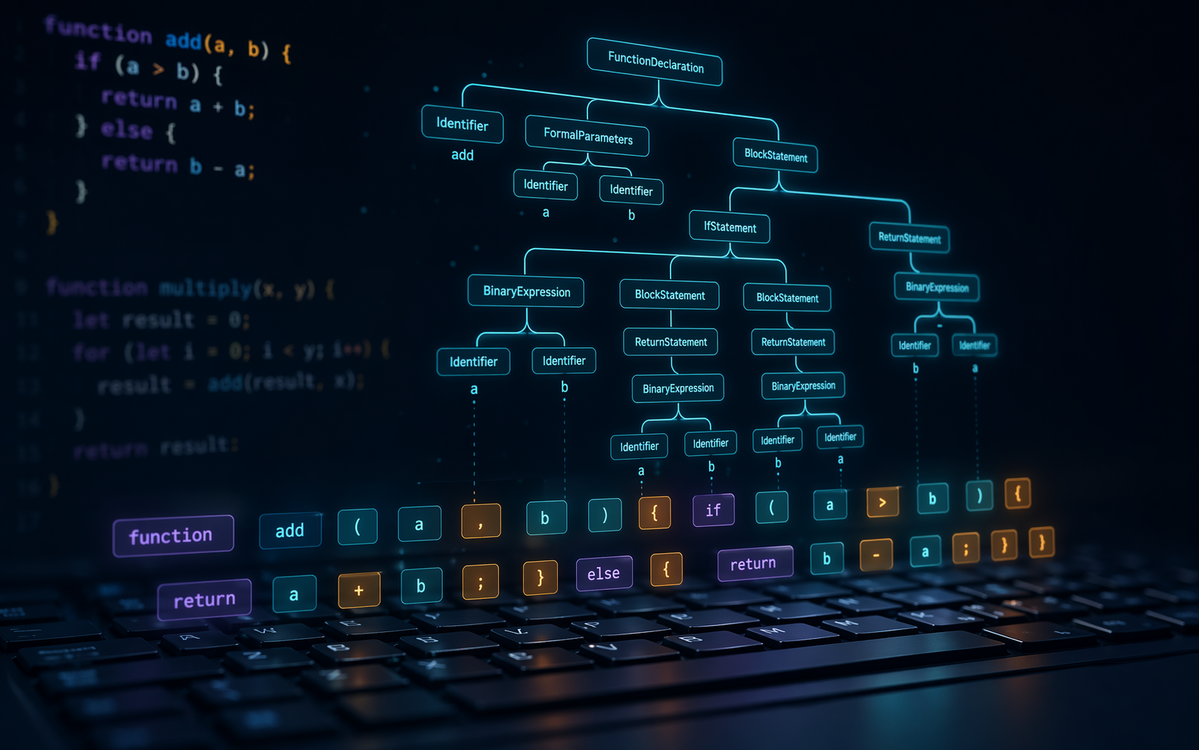
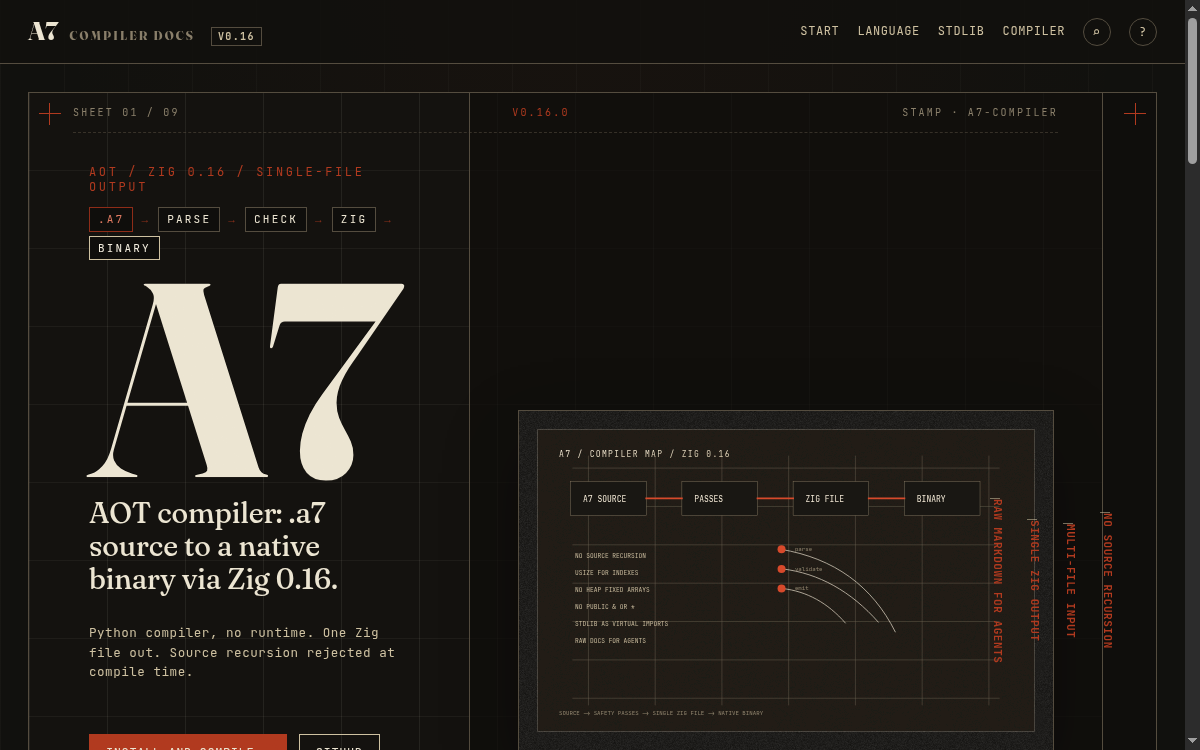
Link portfolio projects to live Pages sites and refresh thumbnails.
Point Rotate at its docs site, add it to SEO metadata, and replace generic project images with real captures of Arraylist, a7-py, and Rotate.

diff --git a/src/data/profile.ts b/src/data/profile.ts
@@ -187,7 +187,7 @@ export const profile = {
     {
       name: 'High Performance Custom Compiler',
       period: '2021-2022',
-      link: 'https://github.com/code5717/rotate',
+      link: 'https://code5717.github.io/rotate',
       bullets: [
         'Built recursive descent compiler in C and C++.',
         'Achieved 150 plus MB per second tokenization on i7 and 186 MB per second on i9.',

diff --git a/index.html b/index.html
@@ -112,6 +112,7 @@
           Key resources:
           <a href="/RESUME-ABDUSSAMAD-APRIL-2026.pdf">Resume PDF</a>,
           <a href="https://code5717.github.io/a7-py">Programming Language from Scratch</a>,
+          <a href="https://code5717.github.io/rotate">High Performance Custom Compiler</a>,
           <a href="https://code5717.github.io/Arraylist">Arraylist for C</a>.
         </p>
       </main>